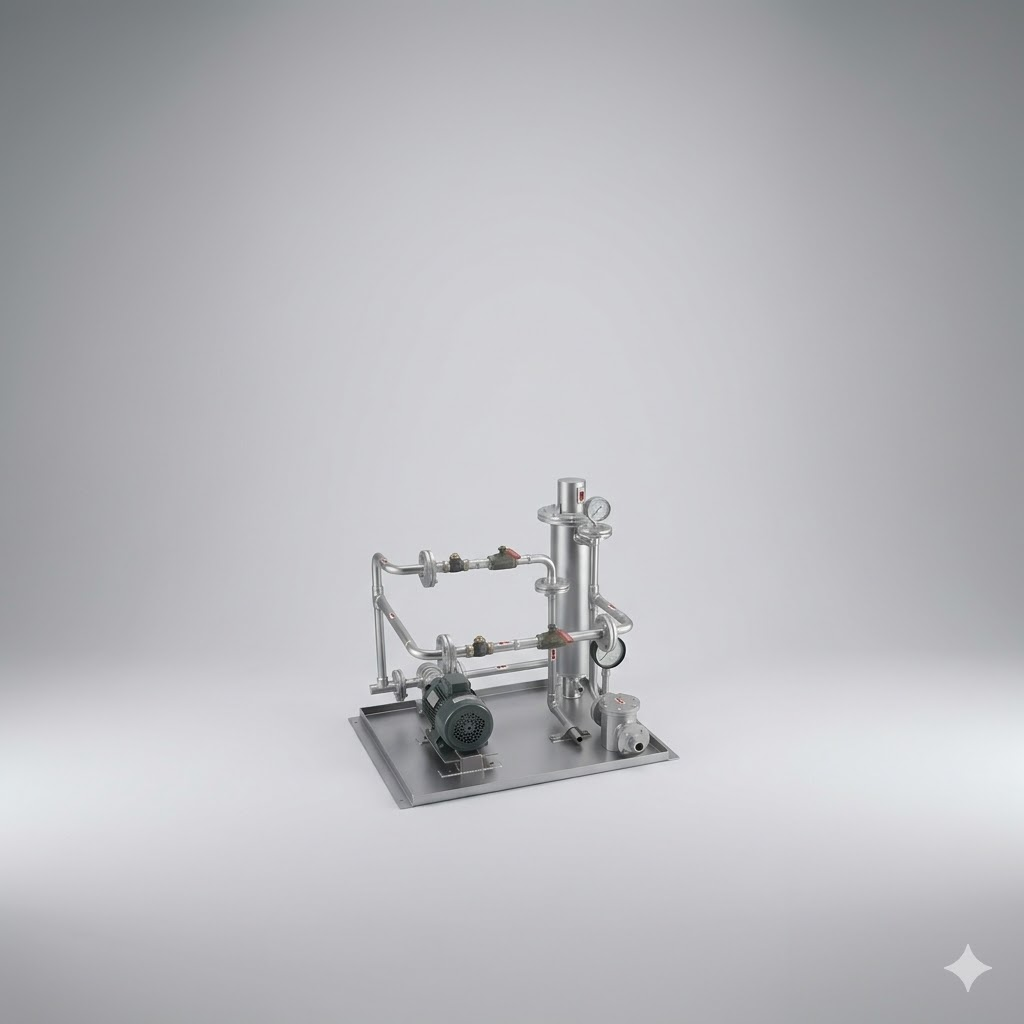
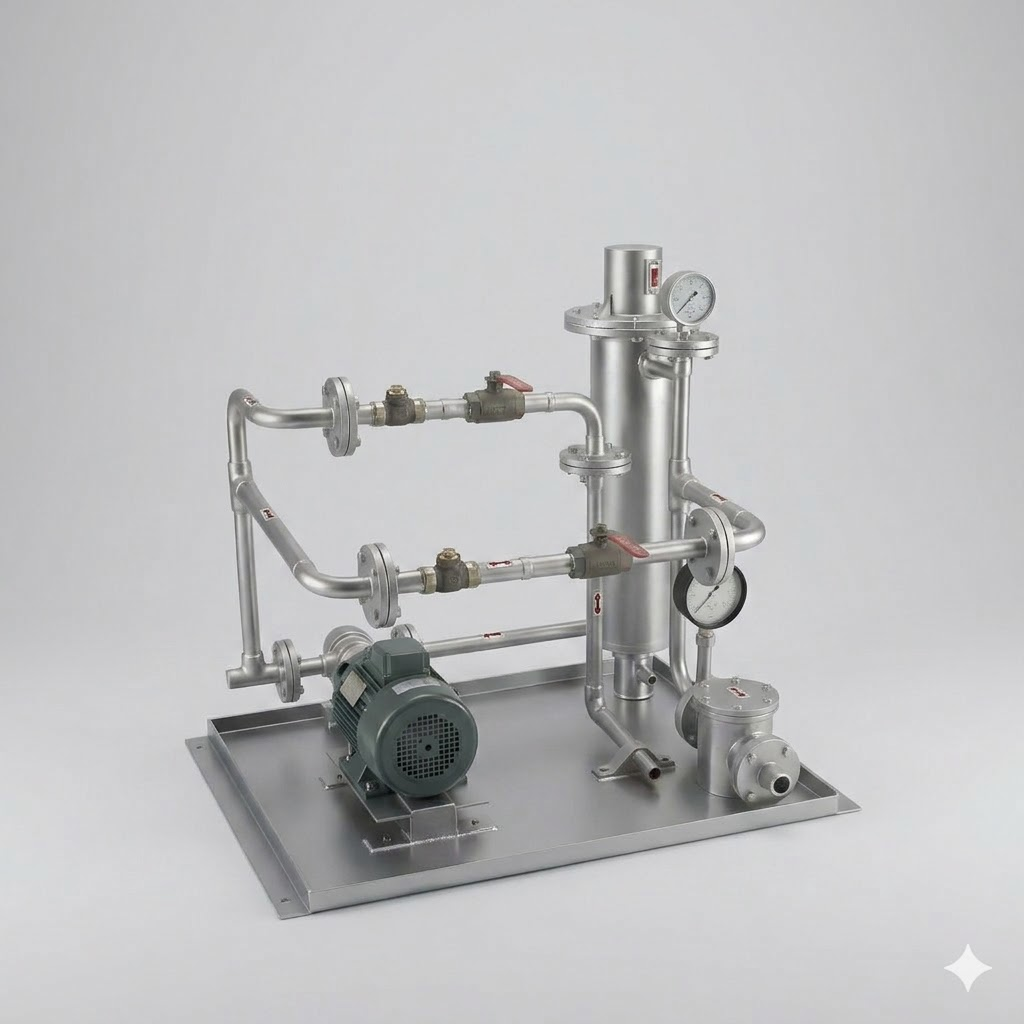
made image and seo changes

diff --git a/src/pages/Index.tsx b/src/pages/Index.tsx
@@ -263,7 +263,7 @@ const Index = () => {
               className="lg:col-span-5 flex flex-col justify-center"
             >
               <p className="text-muted-foreground leading-relaxed mb-4">
-                <strong className="text-foreground">Laxmi Engineering Works</strong> is one of India&apos;s most trusted names in industrial manufacturing. Serving clients across Mumbai, Maharashtra, and India with industrial combustion and heating solutions since 1974. From our 40,000 sq. ft. ISO 9001:2015 certified facility in <strong className="text-foreground">Goregaon East, Mumbai</strong>, we deliver precision-engineered oil burners, blowers, furnaces, and custom machinery to 500+ clients across 10+ sectors.
+                <strong className="text-foreground">Laxmi Engineering Works</strong> is one of India&apos;s most trusted names in industrial manufacturing. Serving clients across Mumbai, Maharashtra, India as well as Internationally with industrial combustion and heating solutions since 1974. From our 40,000 sq. ft. ISO 9001:2015 certified facility in <strong className="text-foreground">Goregaon East, Mumbai</strong>, we deliver precision-engineered oil burners, blowers, furnaces, and custom machinery to 500+ clients across 10+ sectors.
               </p>
               <p className="text-muted-foreground leading-relaxed mb-8">
                 Our experienced team of 100+ engineers combines decades of expertise with modern CNC technology to build equipment that runs reliably, year after year.